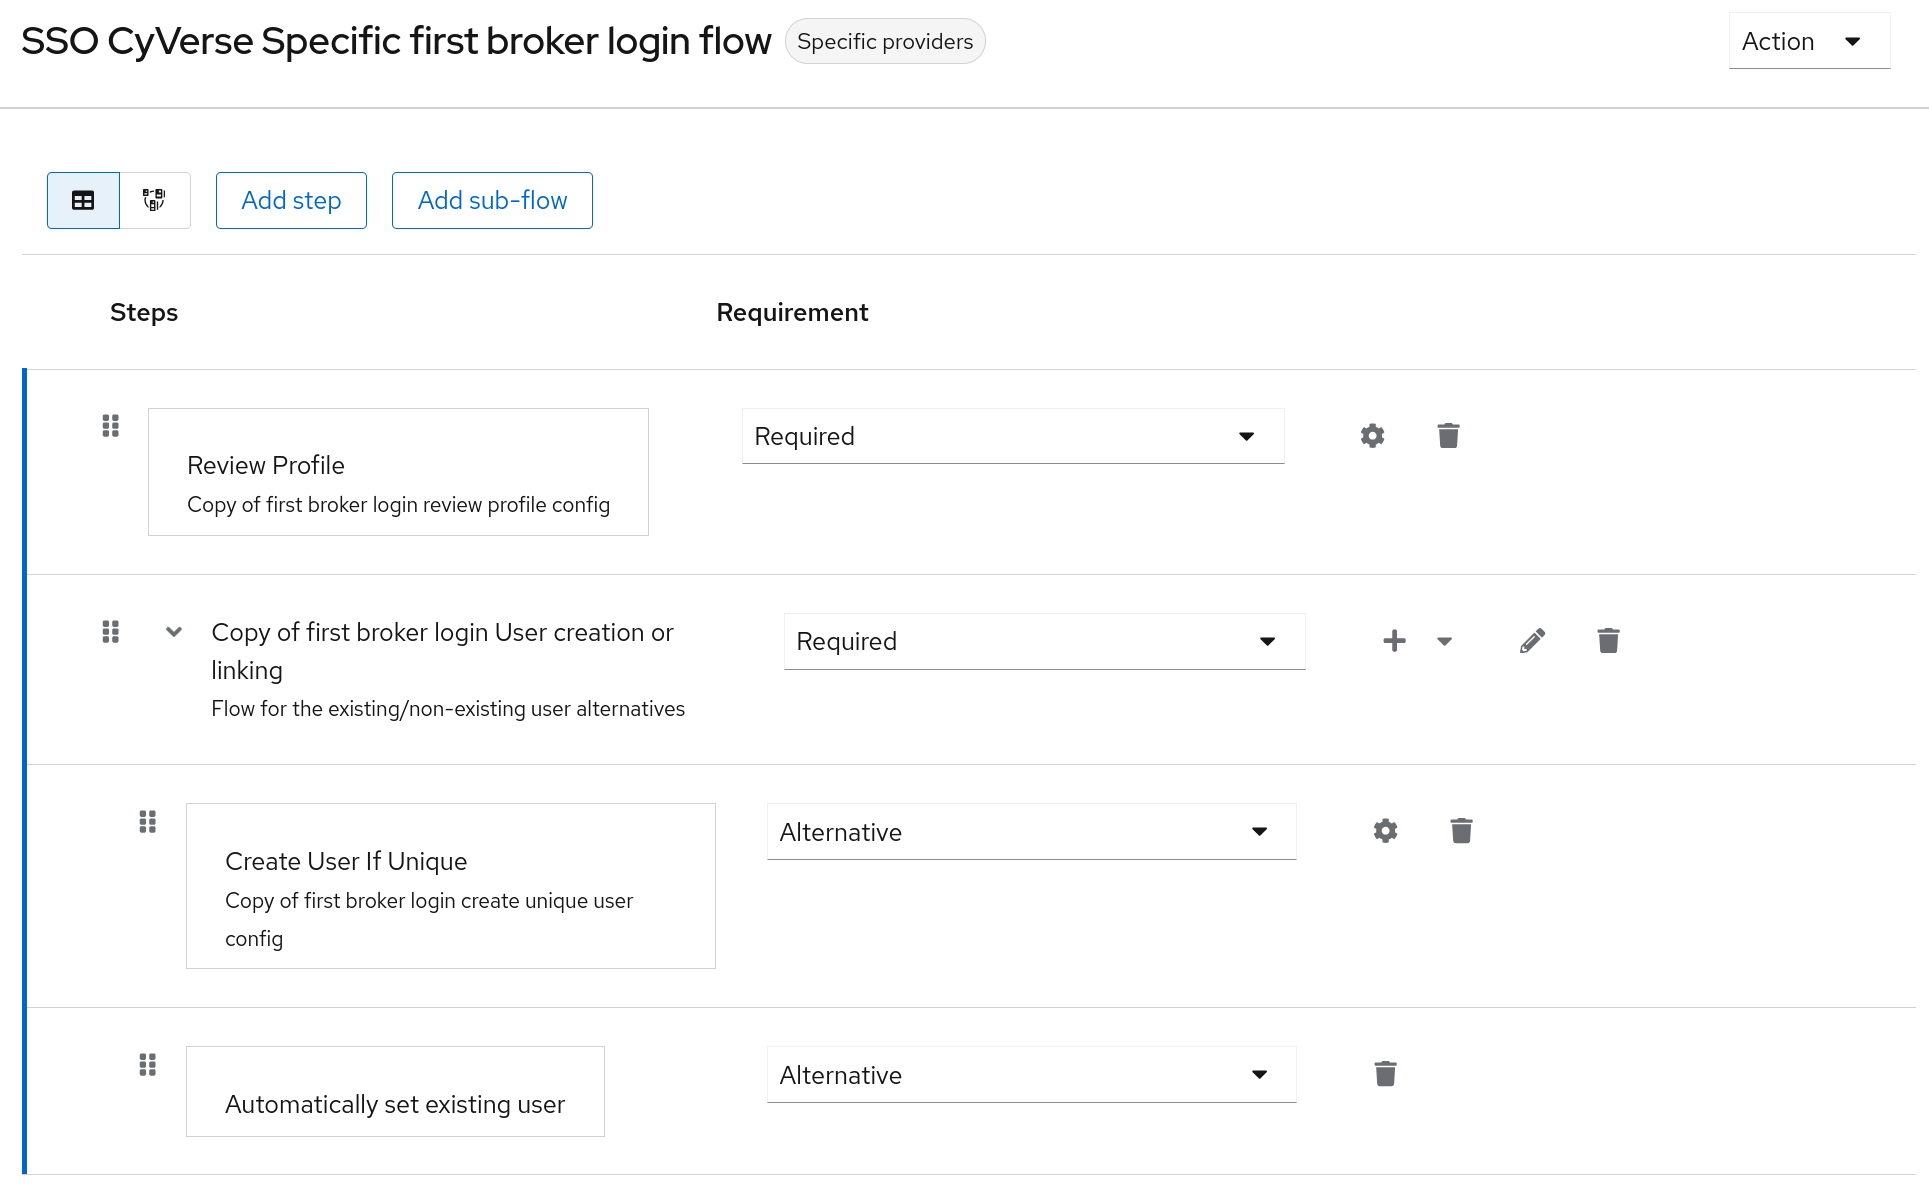
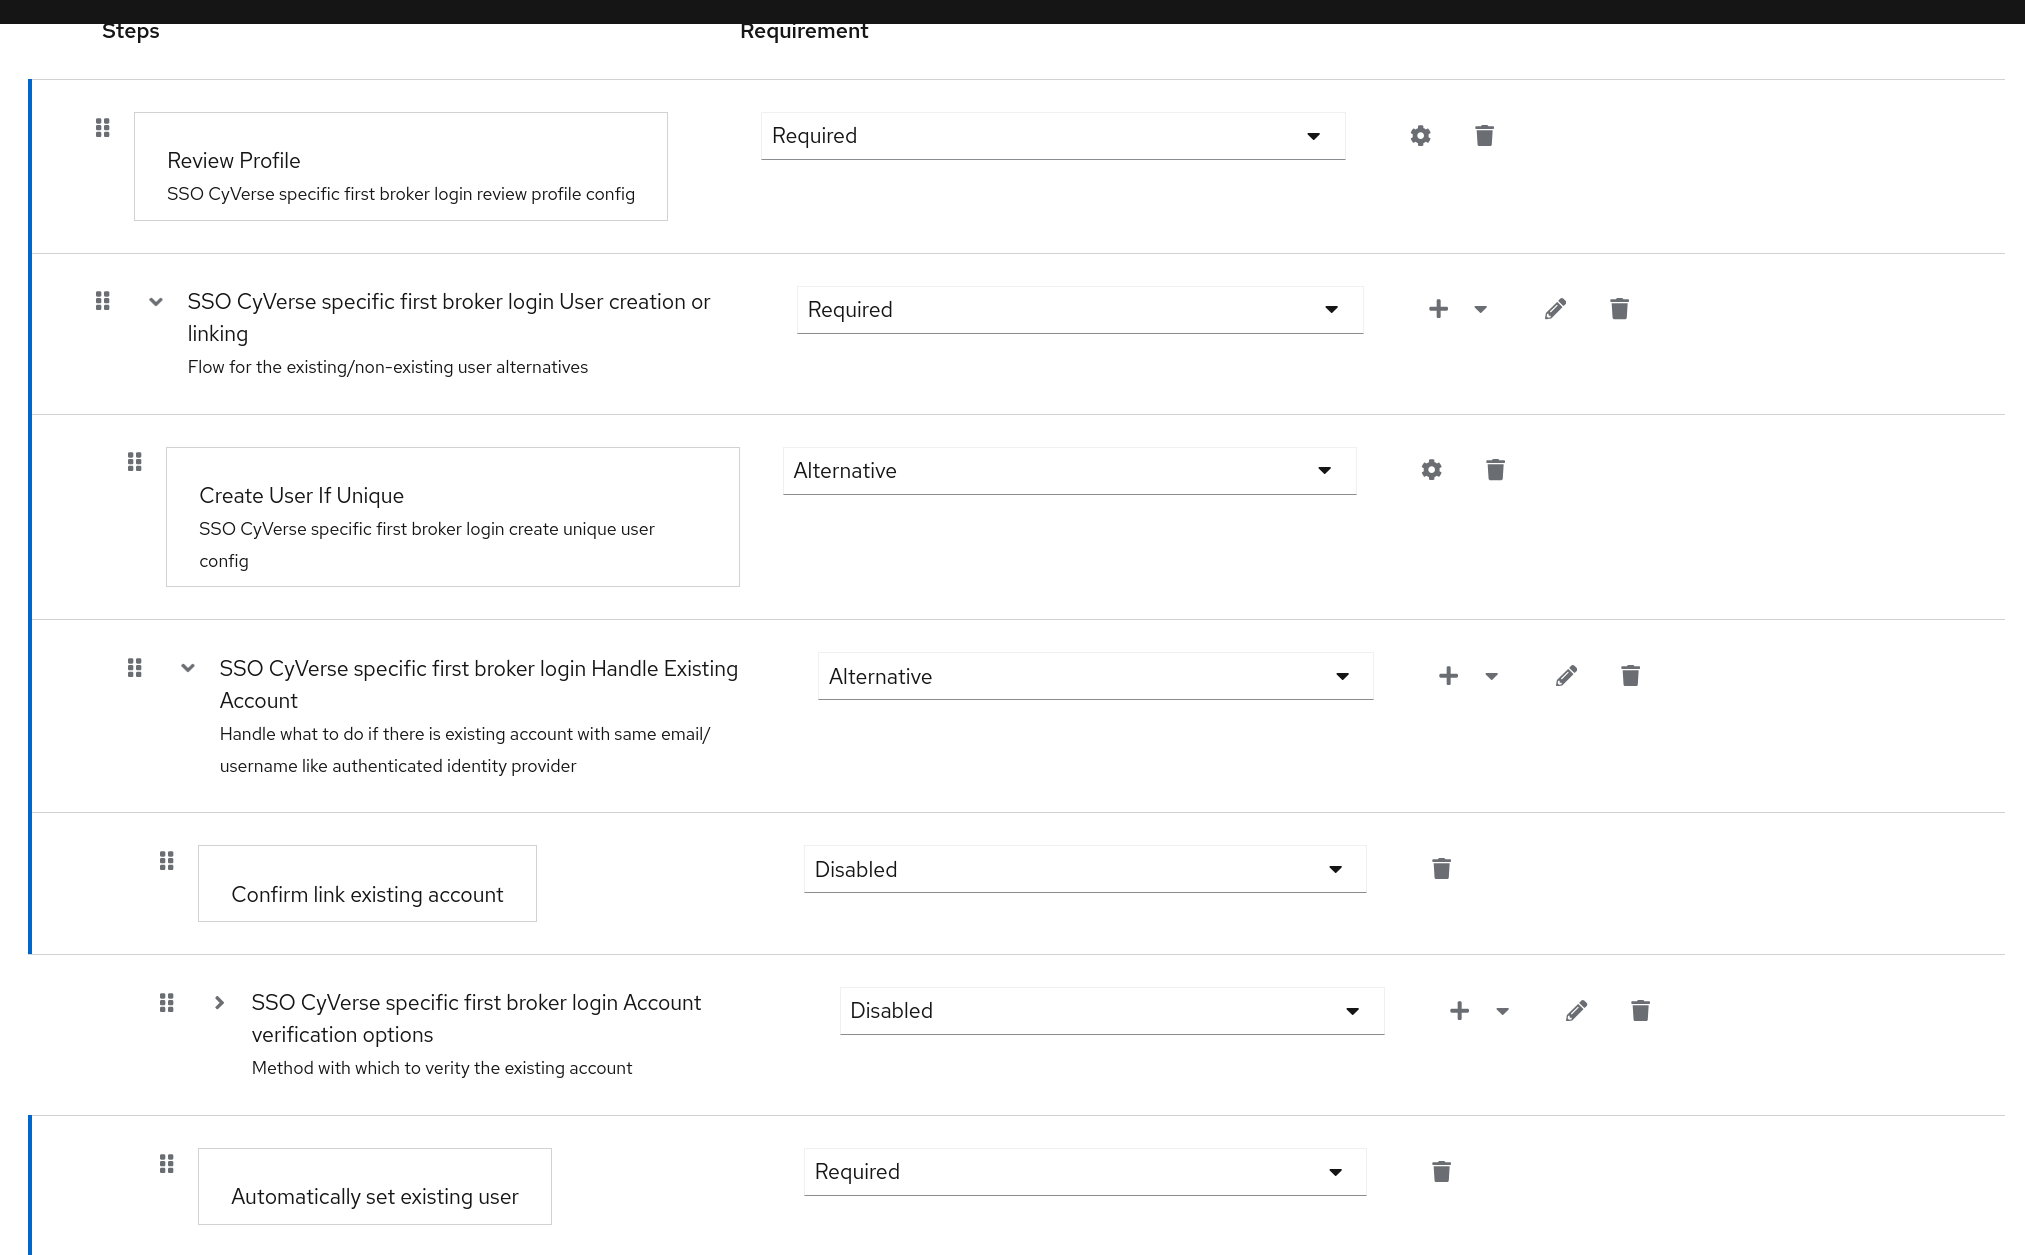
global: release 0.1.0

diff --git a/README.md b/README.md
@@ -18,6 +18,9 @@ For now a basic script that sets up all services needed to locally test this ser
 A diagram that illustrates the basic flow of data for a CyVerse service login flow using this service.
 
 **Example usecase**:
+
+**Note:** The steps related to CyVerse User portal are not valid for now.
+
 1. User tries to login in CyVerse User portal
 2. Redirect to Keycloak -> Login through SSO
 3. Event-listener is triggered -> actions are sent via HTTP to api-service
@@ -38,8 +41,13 @@ that are already federated through LDAP can be a problem with the normal **first
 
 ![custom-flow](./static/custom-flow.png)
 
+To easily create this, go to your realm -> Authentication -> first broker login -> duplicate, then choose a name for the copy and follow the flow in the image.
+
 Then choose this in your identity provider setup:
 
 ![idp-flow](./static/idp-flow.png)
 
 With this in place, when the user that already has an LDAP account in Keycloak tries to authenticate with SSO + de-register, Keycloak will just choose the already existing LDAP account without any extra step.
+
+### CyVerse User portal
+de-register supports user portal automatic registration but for now the call and endpoint are disabled.

diff --git a/CHANGES.md b/CHANGES.md
@@ -1,0 +1,7 @@
+Changes
+=======
+
+Version v0.1.0 (released 2026-02-20)
+
+- global: first version of de-register
+- global: user portal API disabled
